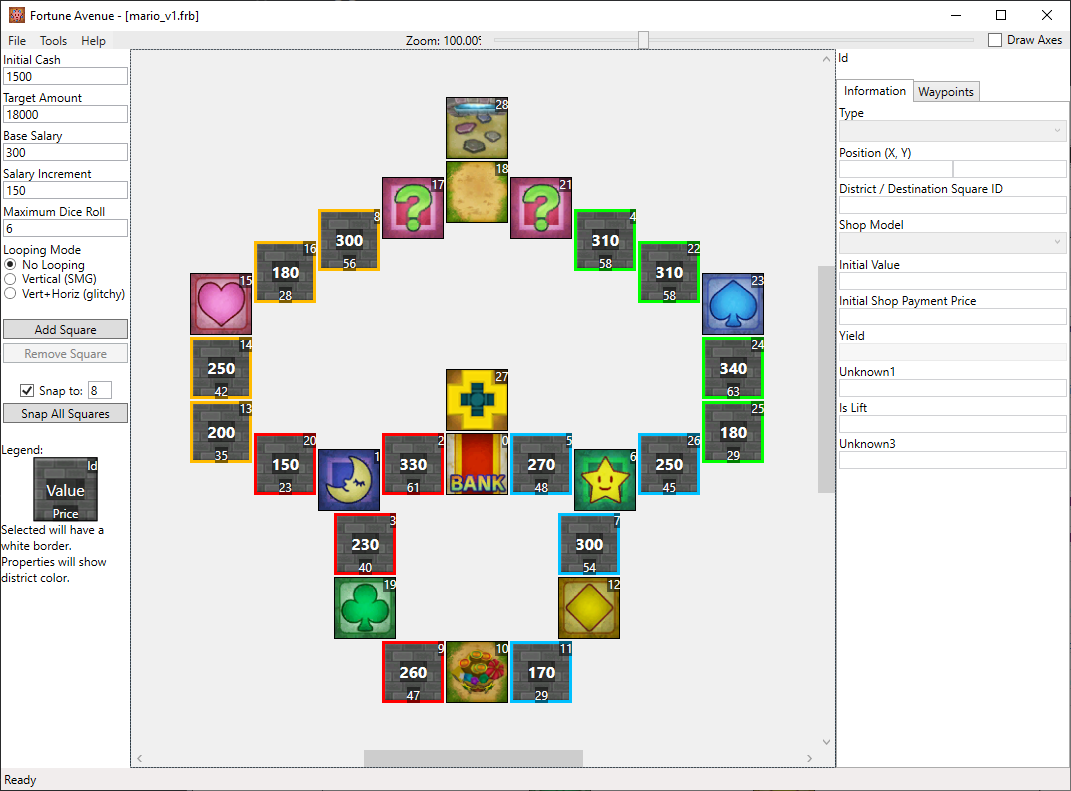
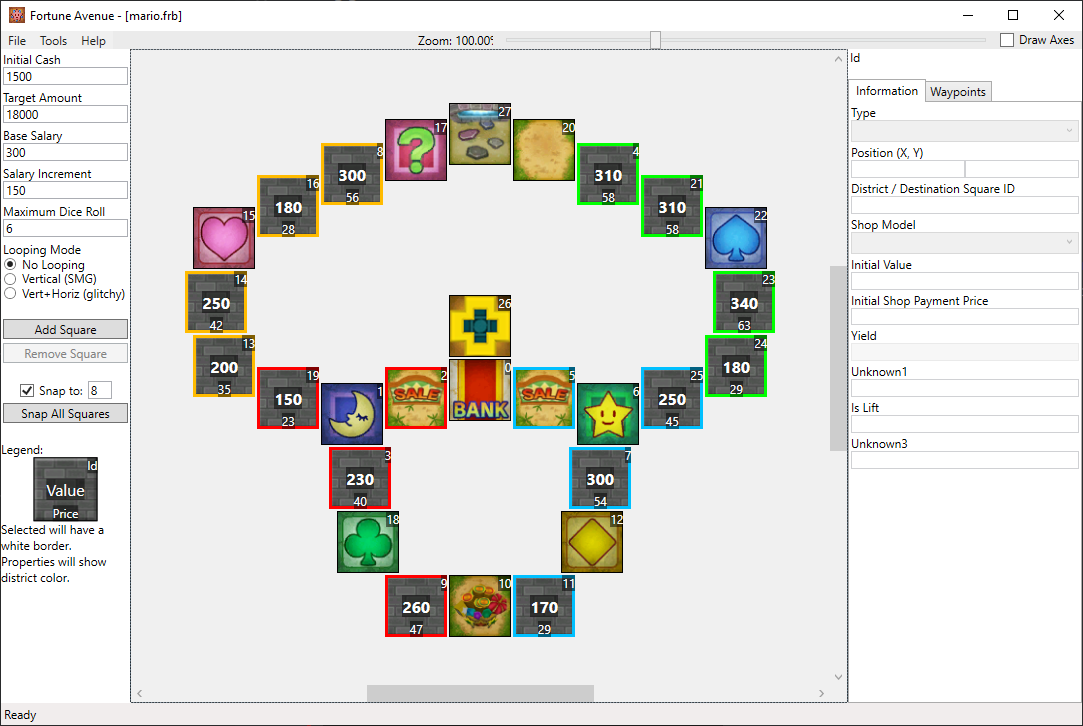
Update Toads' House to v2

diff --git a/ToadsHouse/README.md b/ToadsHouse/README.md
@@ -1,6 +1,6 @@
 # Toad's House
 
-Everytime someone steps on the switch, Lakitu will visit Toad's house.
+Everytime someone steps on the switch, Lakitu will visit Toad's house. A small map where you can ramp up promotions quickly.
 
 ## Screenshots
 
@@ -10,9 +10,9 @@ Everytime someone steps on the switch, Lakitu will visit Toad's house.
 
 | Map Properties    | Value      |
 | ----------------- | ---------- |
-| Initial Cash      | 1500       |
+| Initial Cash      | 1200       |
 | Target Amount     | 18000      | 
-| Base Salary       | 300        | 
+| Base Salary       | 350        | 
 | Salary Increment  | 150        | 
 | Maximum Dice Roll | 6          | 
 | Looping Mode      | No Looping | 
@@ -23,6 +23,12 @@ Everytime someone steps on the switch, Lakitu will visit Toad's house.
 - Should replace a Mario themed map. "Super Mario Bros" mario.frb is a good thematic fit.
 
 ## Changelog
+
+### v2
+- Adjusted map so that Lakitu will appear less often
+- Initial cash reduced from 1500 -> 1200
+- Base salary increased 300 -> 350
+- The shops near the bank are now vacant plots to make them more useful
 
 ### v1
 - Initial Release
